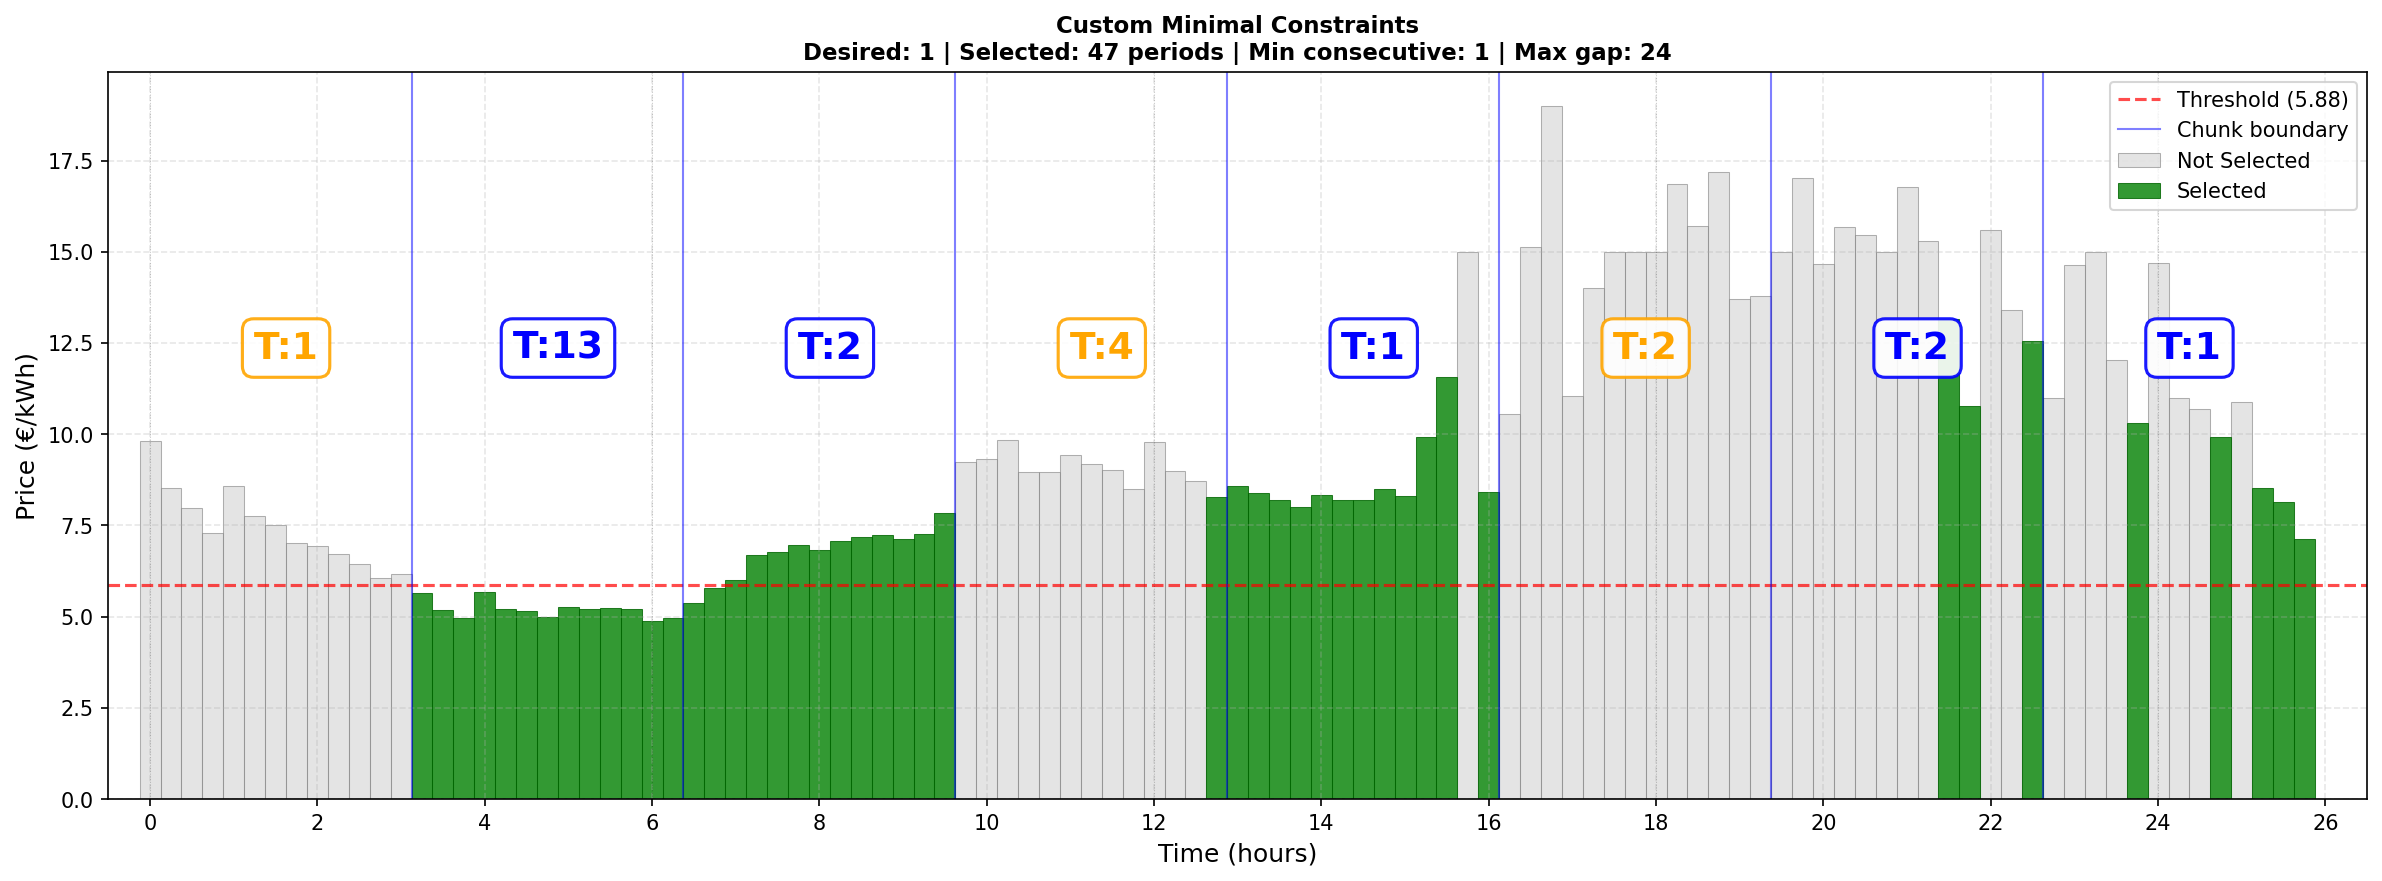
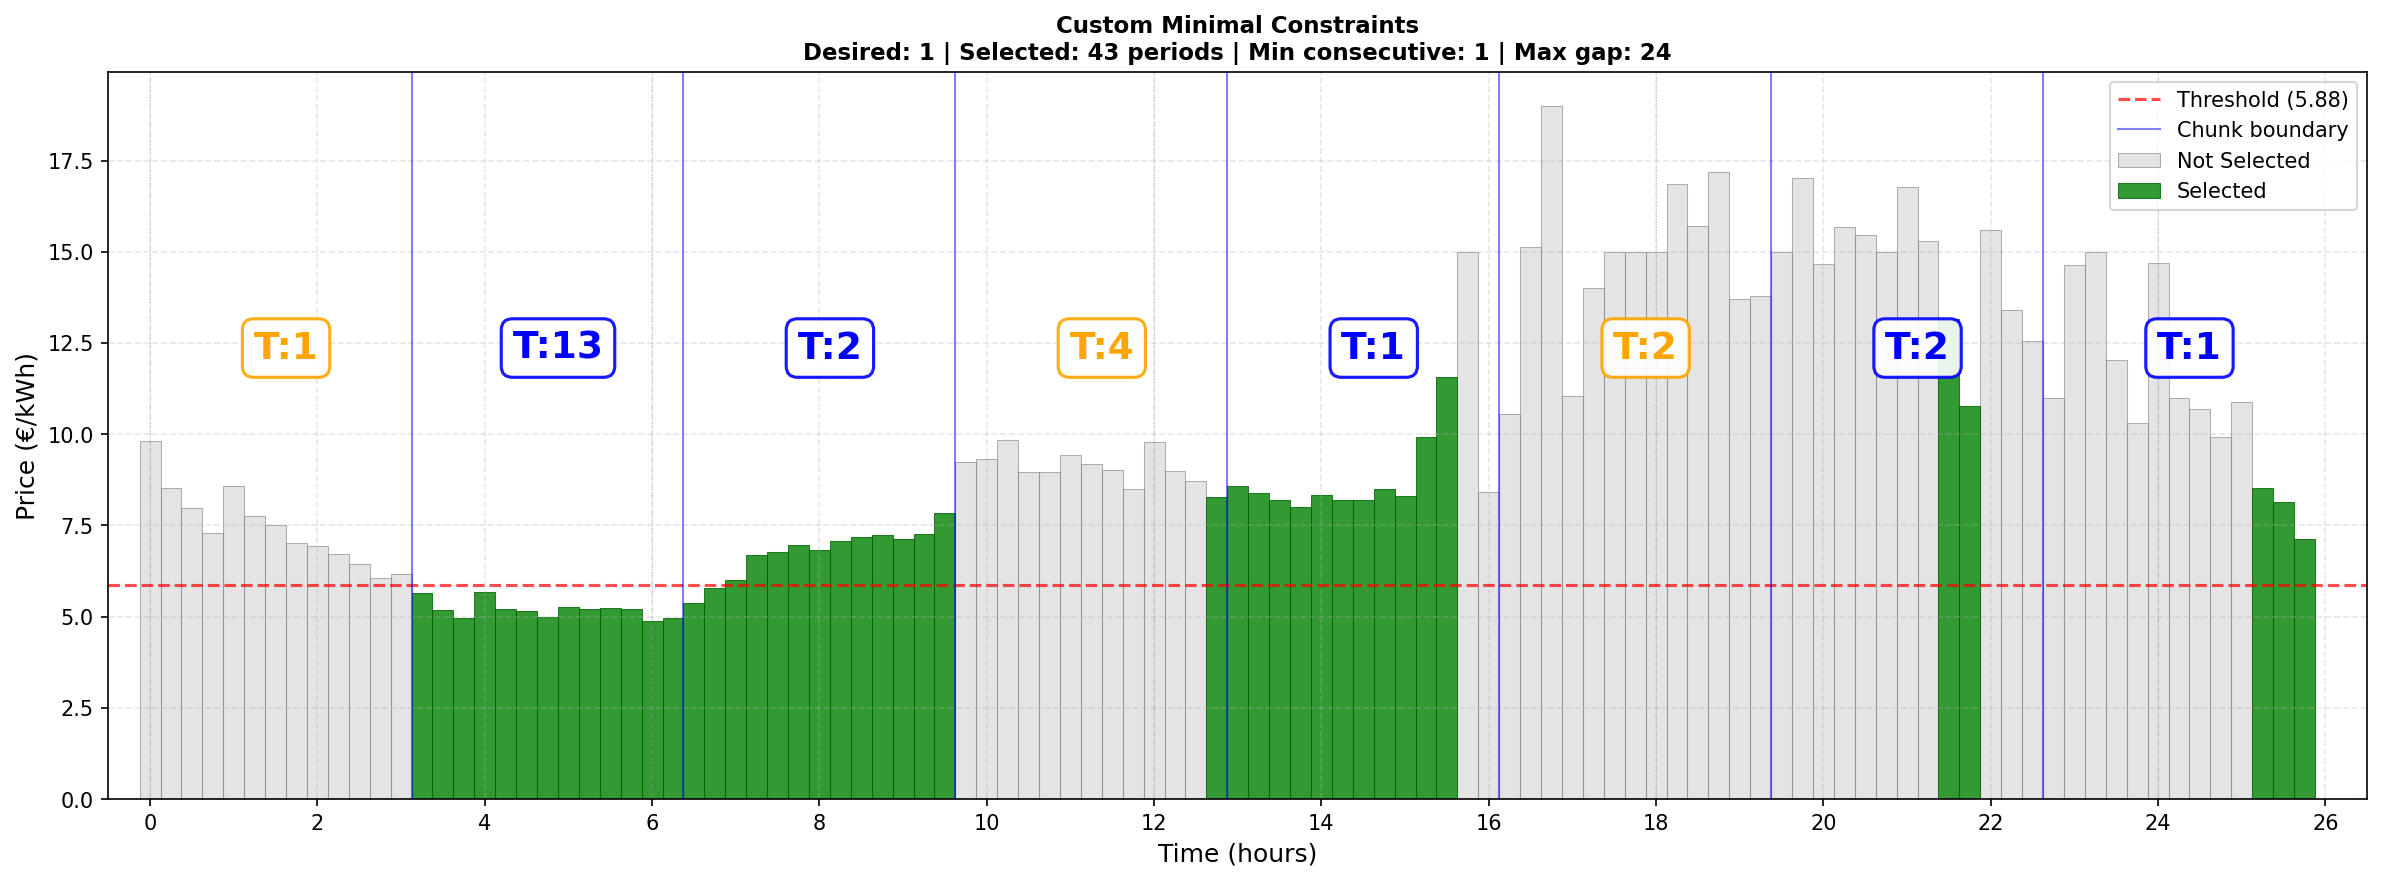
Fix run consolidation: drop above-threshold inner runs before trying backward extension
Previous consolidation logic only tried replacing an above-threshold inner run
with a backward extension of the next run (e.g. prepending cheaper items from
the gap to the following cheap run).  This still left above-threshold items in
the result when the direct gap from prev_run.end to next_run.start was already
within max_gap_between_periods — the run could simply be dropped.

New priority order:
  1. DROP: if direct gap to next run <= max_gap AND total - len(R) >= min_selections,
     just remove the above-threshold run entirely.  No extra items added.
  2. EXTEND BACKWARD (fallback): only if dropping would leave too large a gap,
     walk backward from next_run.start collecting items whose price <= avg(R)
     until the gap becomes acceptable.

Result for mlp_daemon_2026_02_25_01_23_35 (aggressive=False):
  Before: [13-16] + [33-70]  42 items, cost 172.15 (33-35 above threshold)
  After:  [13-16] + [36-70]  39 items, cost 148.09 (second run entirely cheap)

Changed region(s): [[0.8388, 0.3678, 0.9631, 0.9194], [0.6213, 0.5516, 0.6524, 0.9194]]

diff --git a/src/spot_planner/two_phase.py b/src/spot_planner/two_phase.py
@@ -1407,6 +1407,103 @@ def get_cheapest_periods_extended(
             all_selected.append(last)
         all_selected = sorted(all_selected)
 
+    # Run consolidation: for each above-threshold-only inner run R, try to eliminate it.
+    #
+    # Strategy (in priority order):
+    #   1. DROP: simply remove R if the direct gap from prev_run.end to next_run.start
+    #      is already within max_gap_between_periods and total - len(R) >= min_selections.
+    #      This is the best outcome — no above-threshold items added at all.
+    #
+    #   2. EXTEND BACKWARD: if dropping R leaves too large a gap, walk backward from
+    #      next_run.start collecting items whose price <= avg(R) until the new gap is
+    #      within max_gap_between_periods, then replace R with those cheaper items.
+    #
+    # Example DROP: [13-16], [19-22 above threshold], [36-70 cheap]
+    #   → direct gap 16→36 = 19 ≤ max_gap=20, total-4=39 ≥ 35 → drop [19-22]
+    #   → result [13-16] + [36-70]: all second-run items at/below threshold, cheaper
+    #
+    # Conditions:
+    #   1. Run is not the first (first run anchored by max_gap_from_start).
+    #   2. There is a next run.
+    #   3. The next run is ≥ min_consecutive_periods (always true, but recheck after extend).
+    if all_selected:
+        changed = True
+        while changed:
+            changed = False
+            # Recompute runs from scratch each iteration
+            runs: list[tuple[int, int]] = []  # (start_idx, end_idx) inclusive
+            cur_sel = sorted(all_selected)
+            if cur_sel:
+                rs = cur_sel[0]
+                re = cur_sel[0]
+                for si in cur_sel[1:]:
+                    if si == re + 1:
+                        re = si
+                    else:
+                        runs.append((rs, re))
+                        rs = re = si
+                runs.append((rs, re))
+
+            for run_i in range(1, len(runs) - 1):  # skip first and last run
+                r_start, r_end = runs[run_i]
+                r_prev_end = runs[run_i - 1][1]
+                r_next_start, r_next_end = runs[run_i + 1]
+
+                # Only consider runs that are entirely above the threshold
+                if any(prices[j] <= low_price_threshold for j in range(r_start, r_end + 1)):
+                    continue
+
+                r_len = r_end - r_start + 1
+                remove_set = set(range(r_start, r_end + 1))
+
+                # --- Strategy 1: DROP R entirely ---
+                direct_gap = r_next_start - r_prev_end - 1
+                new_total_drop = len(cur_sel) - r_len
+                if (
+                    direct_gap <= max_gap_between_periods
+                    and new_total_drop >= min_selections
+                ):
+                    all_selected = sorted(set(cur_sel) - remove_set)
+                    changed = True
+                    break
+
+                # --- Strategy 2: EXTEND BACKWARD (bridge the gap with cheaper items) ---
+                r_avg = sum(prices[j] for j in range(r_start, r_end + 1)) / r_len
+
+                extension: list[int] = []
+                j = r_next_start - 1
+                while j >= 0 and j not in set(cur_sel):
+                    if prices[j] <= r_avg:
+                        extension.append(j)
+                        j -= 1
+                    else:
+                        break
+
+                if not extension:
+                    continue
+
+                new_next_start = min(extension)
+                new_gap = new_next_start - r_prev_end - 1
+
+                if new_gap > max_gap_between_periods:
+                    continue
+
+                # Ensure the combined next run is still ≥ min_consecutive_periods
+                new_run_len = r_next_end - new_next_start + 1
+                if new_run_len < min_consecutive_periods:
+                    continue
+
+                # Ensure replacing R with extension doesn't go below min_selections
+                new_total = len(cur_sel) - r_len + len(extension)
+                if new_total < min_selections:
+                    continue
+
+                # Apply: remove R, add extension items
+                add_set = set(extension)
+                all_selected = sorted((set(cur_sel) - remove_set) | add_set)
+                changed = True
+                break  # restart loop with updated runs
+
     # Fix incomplete trailing and leading blocks
     if all_selected:
         # Fix trailing block
